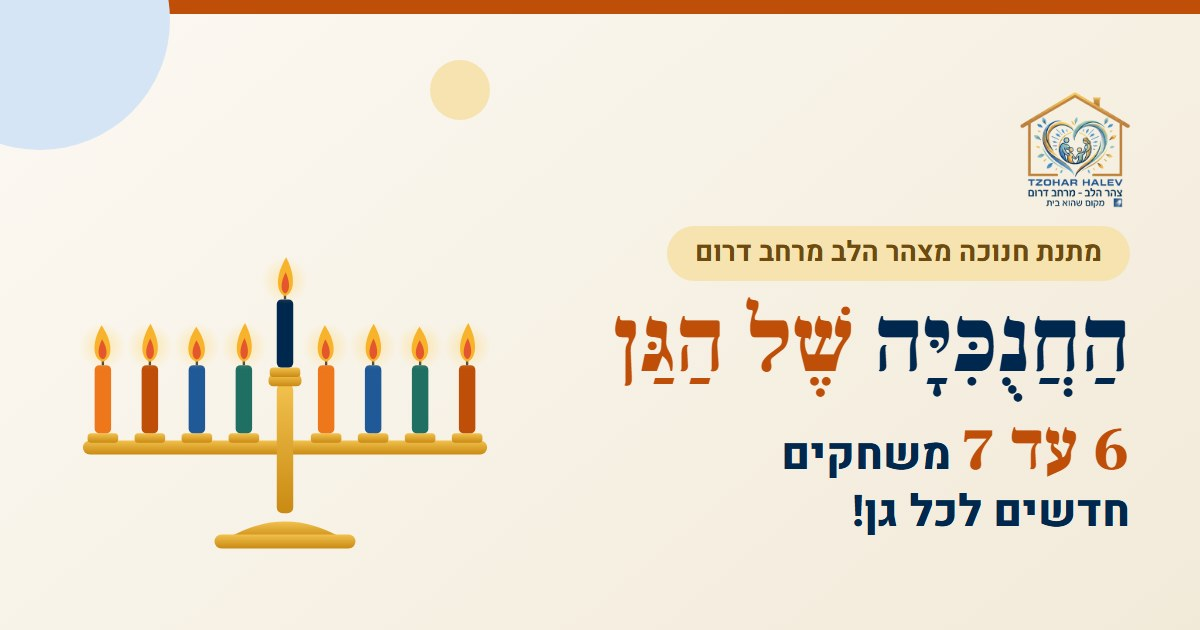
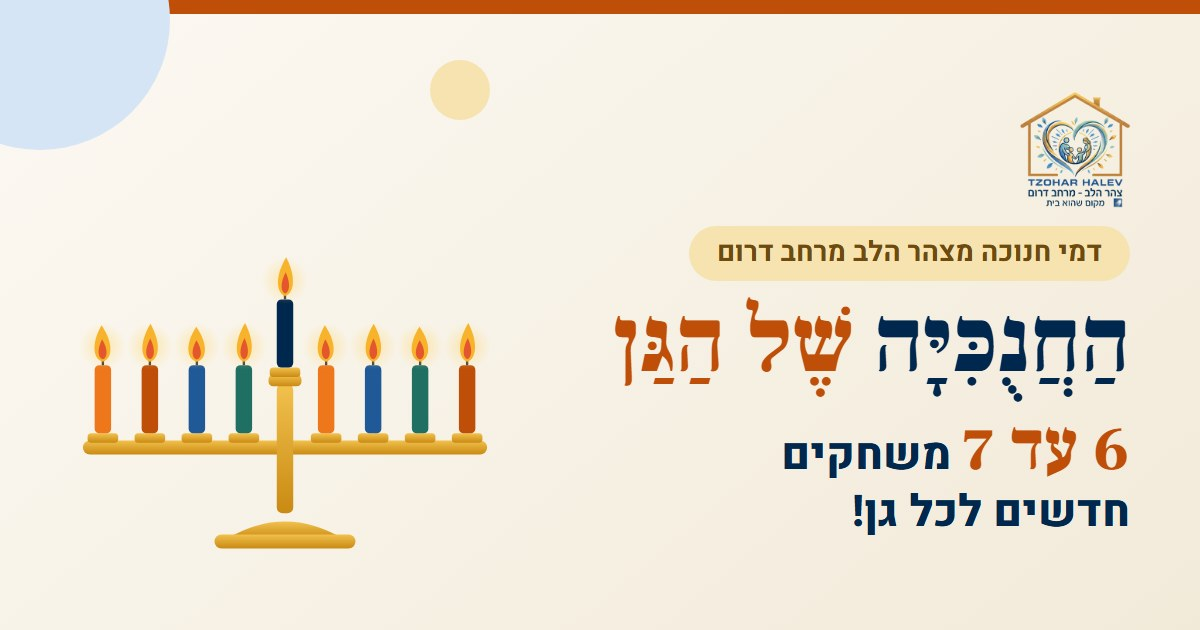
מיילים: דמי חנוכה במקום מתנת חנוכה, תמונות בגרסה 1611

Changed region(s): [[0.555, 0.3619, 0.925, 0.4524]]

diff --git a/email/body_all.html b/email/body_all.html
@@ -1,28 +1,28 @@
 <div dir="rtl" style="direction:rtl;text-align:right">
 <table dir="rtl" cellpadding="0" cellspacing="0" border="0" width="600" style="width:600px;max-width:100%;border-collapse:separate;margin:0 auto">
 <tbody>
-<tr><td style="text-align:center;padding:0 0 16px 0"><a href="https://miriam-tzohar.github.io/chanukiya/"><img src="https://miriam-tzohar.github.io/chanukiya/email/hero_s.gif?v=1511" width="600" height="300" alt="מתנת חנוכה מצהר הלב, החנוכייה של הגן, 6 עד 7 משחקים חדשים לכל גן" style="display:inline-block;border:0;max-width:100%;height:auto"></a></td></tr>
+<tr><td style="text-align:center;padding:0 0 16px 0"><a href="https://miriam-tzohar.github.io/chanukiya/"><img src="https://miriam-tzohar.github.io/chanukiya/email/hero_s.gif?v=1611" width="600" height="300" alt="דמי חנוכה מצהר הלב, החנוכייה של הגן, 6 עד 7 משחקים חדשים לכל גן" style="display:inline-block;border:0;max-width:100%;height:auto"></a></td></tr>
 <tr><td style="font-family:Arial,sans-serif;background-color:#F9F5EC;border-radius:16px;padding:20px 30px;text-align:right;font-size:15px;line-height:1.75;color:#22313F">שלום לכולן,<br><br>השנה בחנוכה אנחנו רוצות להגיד לכן תודה,<br>בדרך שתישאר בגן הרבה אחרי החג.<br><br>כל אחת מכן, רכזת הגן העו״סית, מטפלת רגשית, קלינאית תקשורת,<br>מנתחת התנהגות, מרפאה בעיסוק, סייעת ABA וגננת הגן,<br>בוחרת משחק אחד חדש לגן.<br><b style="color:#00274D">כך יגיעו לכל גן 6 עד 7 משחקים חדשים!</b><br><br>תפקיד המדריכות משמעותי מאוד, הן עוזרות למודרכות שלהן לבחור משחק.<br>צהר הלב מזמינה, וכל גן יקבל באופן מרוכז את המשחקים שהזמין.<br><br>במייל הזה כל ההוראות, צעד אחר צעד.<br><b style="color:#00274D">קודם העו״סיות רכזות הגנים פותחות את הגנים, ואחר כך כל הצוות בוחר.</b></td></tr>
-<tr><td style="text-align:center;padding:22px 0 4px 0"><img src="https://miriam-tzohar.github.io/chanukiya/email/p_sun2.gif?v=1511" width="340" height="134" alt="השמש של הגן, הרכזות פותחות ראשונות" style="display:inline-block;border:0;max-width:100%;height:auto"></td></tr>
-<tr><td style="text-align:center;padding:16px 0 0 0"><a href="https://miriam-tzohar.github.io/chanukiya/"><img src="https://miriam-tzohar.github.io/chanukiya/email/steps_g.jpg?v=1511" width="600" height="214" alt="נכנסים לקישור, כותבים שם וארבע ספרות ותפקיד עו״סית רכזת, פותחים גן חדש עם כתובת, ושולחים לצוות הודעה מוכנה" style="display:inline-block;border:0;max-width:100%;height:auto"></a></td></tr>
+<tr><td style="text-align:center;padding:22px 0 4px 0"><img src="https://miriam-tzohar.github.io/chanukiya/email/p_sun2.gif?v=1611" width="340" height="134" alt="השמש של הגן, הרכזות פותחות ראשונות" style="display:inline-block;border:0;max-width:100%;height:auto"></td></tr>
+<tr><td style="text-align:center;padding:16px 0 0 0"><a href="https://miriam-tzohar.github.io/chanukiya/"><img src="https://miriam-tzohar.github.io/chanukiya/email/steps_g.jpg?v=1611" width="600" height="214" alt="נכנסים לקישור, כותבים שם וארבע ספרות ותפקיד עו״סית רכזת, פותחים גן חדש עם כתובת, ושולחים לצוות הודעה מוכנה" style="display:inline-block;border:0;max-width:100%;height:auto"></a></td></tr>
 <tr><td style="font-family:Arial,sans-serif;background-color:#F9F5EC;border-radius:16px;padding:20px 30px;text-align:right;font-size:15px;line-height:1.75;color:#22313F"><b style="color:#00274D">עו״סיות רכזות הגנים, ככה פותחים את הגן</b><br>1. נכנסים לקישור <a href="https://miriam-tzohar.github.io/chanukiya/" style="color:#205998;font-weight:bold">miriam-tzohar.github.io/chanukiya</a><br>2. כותבים שם פרטי, שם משפחה וארבע הספרות האחרונות של תעודת הזהות.<br>3. בתפקיד בוחרים "עו״סית רכזת", ואז בוחרים את העיר.<br>4. בשורה "הגן שלך" בוחרים "פתיחת גן חדש (אני הרכזת)".<br>5. ממלאים את שם הגן, הכתובת המדויקת למשלוח, טלפון לתיאום,<br>וכמה יבחרו משחק לגן (הגננת, הסייעות והמטפלות, בלי המדריכה).<br>6. לוחצים "פתיחת הגן". מופיעה הודעה מוכנה לצוות של הגן, ושולחים אותה בוואטסאפ או במייל בלחיצה.<br>7. שומרים את קישור הניהול. הוא רק שלך.<br>בו רואים מי כבר בחרה, אפשר לבחור בשם עובדת בלי אינטרנט, ובסוף סוגרים את הסל.<br>8. רכזת של כמה גנים? לוחצים "פתיחת גן נוסף" ופותחים כל גן בנפרד.<br>9. גם את בוחרת משחק? לוחצים "לבחירת המשחק שלי לגן הזה".<br><br><b style="color:#BE4E08">חשוב לפתוח את הגנים כבר היום, כדי שהצוות יוכל לבחור.</b><br>המשחקים יגיעו לכתובת שתכתבי, אז כדאי לכתוב אותה מדויק.</td></tr>
-<tr><td style="text-align:center;padding:22px 0 4px 0"><img src="https://miriam-tzohar.github.io/chanukiya/email/p_team.gif?v=1511" width="340" height="134" alt="לכל הצוות, ככה בוחרות משחק" style="display:inline-block;border:0;max-width:100%;height:auto"></td></tr>
-<tr><td style="text-align:center;padding:16px 0 0 0"><a href="https://miriam-tzohar.github.io/chanukiya/"><img src="https://miriam-tzohar.github.io/chanukiya/email/steps_s.jpg?v=1511" width="600" height="214" alt="נכנסים לקישור, כותבים שם וארבע ספרות, בוחרים את העיר והגן, ובוחרים משחק" style="display:inline-block;border:0;max-width:100%;height:auto"></a></td></tr>
+<tr><td style="text-align:center;padding:22px 0 4px 0"><img src="https://miriam-tzohar.github.io/chanukiya/email/p_team.gif?v=1611" width="340" height="134" alt="לכל הצוות, ככה בוחרות משחק" style="display:inline-block;border:0;max-width:100%;height:auto"></td></tr>
+<tr><td style="text-align:center;padding:16px 0 0 0"><a href="https://miriam-tzohar.github.io/chanukiya/"><img src="https://miriam-tzohar.github.io/chanukiya/email/steps_s.jpg?v=1611" width="600" height="214" alt="נכנסים לקישור, כותבים שם וארבע ספרות, בוחרים את העיר והגן, ובוחרים משחק" style="display:inline-block;border:0;max-width:100%;height:auto"></a></td></tr>
 <tr><td style="font-family:Arial,sans-serif;background-color:#F9F5EC;border-radius:16px;padding:20px 30px;text-align:right;font-size:15px;line-height:1.75;color:#22313F"><b style="color:#00274D">כל הצוות, ככה בוחרים משחק</b><br>1. נכנסים לאותו קישור <a href="https://miriam-tzohar.github.io/chanukiya/" style="color:#205998;font-weight:bold">miriam-tzohar.github.io/chanukiya</a><br>2. כותבים שם פרטי, שם משפחה וארבע הספרות האחרונות של תעודת הזהות, ובוחרים תפקיד.<br>3. בוחרים עיר, ואת הגן שלך מתוך הרשימה.<br>4. לוחצים "לקטלוג המשחקים". אפשר לסנן לפי תחום, או לחפש לפי שם או מספר.<br>5. לוחצים "זה המשחק שלי" ומאשרים, ונדלק נר בחנוכייה של הגן.<br>6. אפשר לשתף תמונה לסטטוס, או לשלוח לצוות בוואטסאפ.<br><br>הגן שלך לא ברשימה? כנראה שהעו״סית רכזת הגן עוד לא פתחה אותו.<br>נסי שוב מאוחר יותר, או הזכירי לה.</td></tr>
-<tr><td style="text-align:center;padding:16px 0 0 0"><img src="https://miriam-tzohar.github.io/chanukiya/email/stats.jpg?v=1511" width="600" height="132" alt="6 עד 7 משחקים חדשים לכל גן, 6 ערים בדרום, הבחירה נסגרת ב25.11" style="display:inline-block;border:0;max-width:100%;height:auto"></td></tr>
-<tr><td style="text-align:center;padding:22px 0 4px 0"><img src="https://miriam-tzohar.github.io/chanukiya/email/p_cat.gif?v=1511" width="340" height="134" alt="מן הקטלוג, משחקים לגיל הגן לפי תחומים" style="display:inline-block;border:0;max-width:100%;height:auto"></td></tr>
-<tr><td style="text-align:center;padding:16px 0 0 0"><a href="https://miriam-tzohar.github.io/chanukiya/"><img src="https://miriam-tzohar.github.io/chanukiya/email/games.jpg?v=1511" width="600" height="262" alt="ארבעה משחקים לדוגמה מהקטלוג" style="display:inline-block;border:0;max-width:100%;height:auto"></a></td></tr>
+<tr><td style="text-align:center;padding:16px 0 0 0"><img src="https://miriam-tzohar.github.io/chanukiya/email/stats.jpg?v=1611" width="600" height="132" alt="6 עד 7 משחקים חדשים לכל גן, 6 ערים בדרום, הבחירה נסגרת ב25.11" style="display:inline-block;border:0;max-width:100%;height:auto"></td></tr>
+<tr><td style="text-align:center;padding:22px 0 4px 0"><img src="https://miriam-tzohar.github.io/chanukiya/email/p_cat.gif?v=1611" width="340" height="134" alt="מן הקטלוג, משחקים לגיל הגן לפי תחומים" style="display:inline-block;border:0;max-width:100%;height:auto"></td></tr>
+<tr><td style="text-align:center;padding:16px 0 0 0"><a href="https://miriam-tzohar.github.io/chanukiya/"><img src="https://miriam-tzohar.github.io/chanukiya/email/games.jpg?v=1611" width="600" height="262" alt="ארבעה משחקים לדוגמה מהקטלוג" style="display:inline-block;border:0;max-width:100%;height:auto"></a></td></tr>
 <tr><td style="font-family:Arial,sans-serif;background-color:#F9F5EC;border-radius:16px;padding:20px 30px;text-align:right;font-size:15px;line-height:1.75;color:#22313F">קלינאית תקשורת תמצא משחקי שפה,<br>מרפאה בעיסוק משחקי מוטוריקה וחושים,<br>והסייעות משחקי חברה ותורות.<br>יש גם פאזלים, משחקי חשיבה ומשחקים לחגים.</td></tr>
-<tr><td style="text-align:center;padding:22px 0 4px 0"><img src="https://miriam-tzohar.github.io/chanukiya/email/p_off.gif?v=1511" width="340" height="134" alt="בלי אינטרנט, גם כך אפשר לבחור" style="display:inline-block;border:0;max-width:100%;height:auto"></td></tr>
+<tr><td style="text-align:center;padding:22px 0 4px 0"><img src="https://miriam-tzohar.github.io/chanukiya/email/p_off.gif?v=1611" width="340" height="134" alt="בלי אינטרנט, גם כך אפשר לבחור" style="display:inline-block;border:0;max-width:100%;height:auto"></td></tr>
 <tr><td style="font-family:Arial,sans-serif;background-color:#E6F3EE;border-radius:16px;padding:20px 30px;text-align:right;font-size:15px;line-height:1.85;color:#22313F">אין לך אינטרנט, או שהקישור לא נפתח אצלך?<br>מצורף למייל קטלוג להדפסה, ולכל משחק יש בו מספר.<br>בוחרים מספר ומוסרים אותו לרכזת הגן, יחד עם השם וארבע הספרות.<br>הרכזת נכנסת לקישור הניהול שלה, לוחצת "בחירה בשם עובדת",<br>וכותבת את מספר המשחק בחיפוש.<br><a href="https://miriam-tzohar.github.io/chanukiya/catalog.pdf" style="color:#205998;font-weight:bold">לקטלוג להדפסה</a></td></tr>
-<tr><td style="text-align:center;padding:22px 0 4px 0"><img src="https://miriam-tzohar.github.io/chanukiya/email/p_faq.gif?v=1511" width="340" height="134" alt="שאלות ותשובות, כל מה שחשוב לדעת" style="display:inline-block;border:0;max-width:100%;height:auto"></td></tr>
+<tr><td style="text-align:center;padding:22px 0 4px 0"><img src="https://miriam-tzohar.github.io/chanukiya/email/p_faq.gif?v=1611" width="340" height="134" alt="שאלות ותשובות, כל מה שחשוב לדעת" style="display:inline-block;border:0;max-width:100%;height:auto"></td></tr>
 <tr><td style="font-family:Arial,sans-serif;background-color:#F9F5EC;border-radius:16px;padding:20px 30px;text-align:right;font-size:15px;line-height:1.75;color:#22313F"><b style="color:#00274D">מדריכה, מה התפקיד שלך?</b><br>תפקיד המדריכות פה משמעותי מאוד.<br>את זו שעוזרת לכל המודרכות שלך לבחור משחק.<br>שבי איתן מול הקטלוג, המליצי על משחקים שמתאימים לילדים,<br>וכל אחת בוחרת בעצמה.<br><br><b style="color:#00274D">עו״סית שמרכזת כמה גנים?</b><br>פותחת את כל הגנים שלה, ובוחרת משחק אחד לאחד מהם.<br><br><b style="color:#00274D">אפשר להחליף משחק?</b><br>כן, עד שהרכזת סוגרת את הסל.<br><br><b style="color:#00274D">המשחק שרציתי נעול?</b><br>מישהי מהגן כבר בחרה אותו, כדי שלא יהיו כפולים. בוחרים משחק אחר.<br><br><b style="color:#00274D">למה ארבע ספרות?</b><br>רק כדי שכל אחת תבחר פעם אחת. לא מבקשים את המספר המלא.<br><br><b style="color:#00274D">מתי המשחקים מגיעים?</b><br>צהר הלב מזמינה אחרי שהבחירה נסגרת,<br>וכל גן יקבל באופן מרוכז את כל המשחקים שלו.</td></tr>
-<tr><td style="text-align:center;padding:22px 0 4px 0"><img src="https://miriam-tzohar.github.io/chanukiya/email/p_note.gif?v=1511" width="340" height="134" alt="מילה אישית ממרים" style="display:inline-block;border:0;max-width:100%;height:auto"></td></tr>
+<tr><td style="text-align:center;padding:22px 0 4px 0"><img src="https://miriam-tzohar.github.io/chanukiya/email/p_note.gif?v=1611" width="340" height="134" alt="מילה אישית ממרים" style="display:inline-block;border:0;max-width:100%;height:auto"></td></tr>
 <tr><td style="font-family:Arial,sans-serif;background-color:#EEF4FA;border:2px solid #DCE8F5;border-radius:18px;padding:22px 30px;text-align:center;font-size:15.5px;line-height:1.85;color:#00274D">אני רואה כל יום כמה אתן נותנות לילדים שלנו.<br>המשחק הזה הוא תודה קטנה,<br>שתישאר בגן ותשמח את הילדים גם אחרי החג.<br>אז תבחרו משהו שאתן אוהבות,<br>ותדליקו איתנו את החנוכייה של הגן.<br><span style="color:#BE4E08;font-weight:bold">מרים</span></td></tr>
 <tr><td style="font-family:Arial,sans-serif;padding:22px 10px 0 10px;text-align:center;font-size:16px;line-height:1.75;color:#00274D">הבחירה פתוחה עד יום רביעי, 25.11</td></tr>
-<tr><td style="text-align:center;padding:8px 0 0 0"><a href="https://miriam-tzohar.github.io/chanukiya/"><img src="https://miriam-tzohar.github.io/chanukiya/email/cta_s.gif?v=1511" width="600" height="156" alt="לבחירת המשחק שלי, לחצי כאן" style="display:inline-block;border:0;max-width:100%;height:auto"></a></td></tr>
+<tr><td style="text-align:center;padding:8px 0 0 0"><a href="https://miriam-tzohar.github.io/chanukiya/"><img src="https://miriam-tzohar.github.io/chanukiya/email/cta_s.gif?v=1611" width="600" height="156" alt="לבחירת המשחק שלי, לחצי כאן" style="display:inline-block;border:0;max-width:100%;height:auto"></a></td></tr>
 <tr><td style="font-family:Arial,sans-serif;text-align:center;padding:4px 0 0 0;font-size:14px;color:#33475E">הקישור לבחירה <a href="https://miriam-tzohar.github.io/chanukiya/" style="color:#205998;font-weight:bold">miriam-tzohar.github.io/chanukiya</a></td></tr>
-<tr><td style="text-align:center;padding:16px 0 0 0"><a href="https://miriam-tzohar.github.io/chanukiya/wall.html"><img src="https://miriam-tzohar.github.io/chanukiya/email/wall.jpg?v=1511" width="600" height="150" alt="קיר החנוכיות, איזה גן ידליק ראשון את כל החנוכייה" style="display:inline-block;border:0;max-width:100%;height:auto"></a></td></tr>
+<tr><td style="text-align:center;padding:16px 0 0 0"><a href="https://miriam-tzohar.github.io/chanukiya/wall.html"><img src="https://miriam-tzohar.github.io/chanukiya/email/wall.jpg?v=1611" width="600" height="150" alt="קיר החנוכיות, איזה גן ידליק ראשון את כל החנוכייה" style="display:inline-block;border:0;max-width:100%;height:auto"></a></td></tr>
 <tr><td style="font-family:Arial,sans-serif;padding:24px 6px 0 0;text-align:right;font-size:15px;color:#22313F">חג אורים שמח,</td></tr>
 <tr><td style="font-family:Arial,sans-serif;padding:10px 6px 0 0;text-align:right;font-size:13.5px;line-height:1.65;color:#33475E"><span style="font-size:16px;font-weight:bold;color:#00274D">מרים</span><br><span style="font-weight:bold;color:#BE4E08">רכזת אשכול, צהר הלב מרחב דרום</span><br><a href="mailto:miryamti@tzlev.com" style="color:#205998">miryamti@tzlev.com</a></td></tr>
 </tbody></table>

diff --git a/email/body_rakazot.html b/email/body_rakazot.html
@@ -1,24 +1,24 @@
 <div dir="rtl" style="direction:rtl;text-align:right">
 <table dir="rtl" cellpadding="0" cellspacing="0" border="0" width="600" style="width:600px;max-width:100%;border-collapse:separate;margin:0 auto">
 <tbody>
-<tr><td style="text-align:center;padding:0 0 16px 0"><a href="https://miriam-tzohar.github.io/chanukiya/"><img src="https://miriam-tzohar.github.io/chanukiya/email/hero_g.gif?v=1511" width="600" height="300" alt="את השמש של הגן, את פותחת את הגן וכל הצוות בוחר משחק חדש" style="display:inline-block;border:0;max-width:100%;height:auto"></a></td></tr>
+<tr><td style="text-align:center;padding:0 0 16px 0"><a href="https://miriam-tzohar.github.io/chanukiya/"><img src="https://miriam-tzohar.github.io/chanukiya/email/hero_g.gif?v=1611" width="600" height="300" alt="את השמש של הגן, את פותחת את הגן וכל הצוות בוחר משחק חדש" style="display:inline-block;border:0;max-width:100%;height:auto"></a></td></tr>
 <tr><td style="font-family:Arial,sans-serif;background-color:#F9F5EC;border-radius:16px;padding:20px 30px;text-align:right;font-size:15px;line-height:1.75;color:#22313F">עו״סית יקרה,<br><br>השנה בחנוכה צהר הלב מזמינה לכל אשת צוות בגנים שלך משחק חדש לגן,<br><b style="color:#00274D">כך יגיעו לכל גן 6 עד 7 משחקים חדשים!</b><br>רכזת הגן, המטפלות, סייעת ABA והגננת, כל אחת בוחרת משחק בעצמה מהקטלוג.<br>תפקיד המדריכות משמעותי מאוד, הן עוזרות לצוות לבחור.<br>צהר הלב מזמינה, וכל גן יקבל באופן מרוכז את המשחקים שהזמין.</td></tr>
-<tr><td style="text-align:center;padding:22px 0 4px 0"><img src="https://miriam-tzohar.github.io/chanukiya/email/p_sun.gif?v=1511" width="340" height="134" alt="השמש של הגן, את פותחת ראשונה" style="display:inline-block;border:0;max-width:100%;height:auto"></td></tr>
+<tr><td style="text-align:center;padding:22px 0 4px 0"><img src="https://miriam-tzohar.github.io/chanukiya/email/p_sun.gif?v=1611" width="340" height="134" alt="השמש של הגן, את פותחת ראשונה" style="display:inline-block;border:0;max-width:100%;height:auto"></td></tr>
 <tr><td style="font-family:Arial,sans-serif;background-color:#F9F5EC;border-radius:16px;padding:20px 30px;text-align:right;font-size:15px;line-height:1.75;color:#22313F">את רכזת הגן, ולכן את השמש של החנוכייה.<br>את פותחת את הגן ראשונה,<br>ואז כל אשת צוות שבוחרת משחק מדליקה נר בחנוכייה של הגן.<br>רכזת של כמה גנים? פותחים כל גן בנפרד, זה לוקח דקה לכל גן.</td></tr>
-<tr><td style="text-align:center;padding:16px 0 0 0"><a href="https://miriam-tzohar.github.io/chanukiya/"><img src="https://miriam-tzohar.github.io/chanukiya/email/steps_g.jpg?v=1511" width="600" height="214" alt="נכנסים לקישור, כותבים שם וארבע ספרות ותפקיד עו״סית רכזת, פותחים גן חדש עם כתובת, ושולחים לצוות הודעה מוכנה" style="display:inline-block;border:0;max-width:100%;height:auto"></a></td></tr>
+<tr><td style="text-align:center;padding:16px 0 0 0"><a href="https://miriam-tzohar.github.io/chanukiya/"><img src="https://miriam-tzohar.github.io/chanukiya/email/steps_g.jpg?v=1611" width="600" height="214" alt="נכנסים לקישור, כותבים שם וארבע ספרות ותפקיד עו״סית רכזת, פותחים גן חדש עם כתובת, ושולחים לצוות הודעה מוכנה" style="display:inline-block;border:0;max-width:100%;height:auto"></a></td></tr>
 <tr><td style="font-family:Arial,sans-serif;background-color:#F9F5EC;border-radius:16px;padding:20px 30px;text-align:right;font-size:15px;line-height:1.75;color:#22313F">אחרי הפתיחה מופיעה לך הודעה מוכנה לצוות של הגן,<br>עם כפתור וואטסאפ וכפתור מייל.<br><br>יש לך גם קישור ניהול לכל גן, והוא רק שלך.<br>בו רואים מי כבר בחרה ומה,<br>אפשר לבחור בשם עובדת בלי סמארטפון,<br>ובסוף סוגרים את הסל.<br><br>גם את יכולה לבחור משחק אחד, לאחד הגנים שלך.</td></tr>
-<tr><td style="text-align:center;padding:16px 0 0 0"><img src="https://miriam-tzohar.github.io/chanukiya/email/stats.jpg?v=1511" width="600" height="132" alt="6 עד 7 משחקים חדשים לכל גן, 6 ערים בדרום, הבחירה נסגרת ב25.11" style="display:inline-block;border:0;max-width:100%;height:auto"></td></tr>
-<tr><td style="text-align:center;padding:22px 0 4px 0"><img src="https://miriam-tzohar.github.io/chanukiya/email/p_cat.gif?v=1511" width="340" height="134" alt="מן הקטלוג, משחקים לגיל הגן לפי תחומים" style="display:inline-block;border:0;max-width:100%;height:auto"></td></tr>
-<tr><td style="text-align:center;padding:16px 0 0 0"><a href="https://miriam-tzohar.github.io/chanukiya/"><img src="https://miriam-tzohar.github.io/chanukiya/email/games.jpg?v=1511" width="600" height="262" alt="ארבעה משחקים לדוגמה מהקטלוג" style="display:inline-block;border:0;max-width:100%;height:auto"></a></td></tr>
+<tr><td style="text-align:center;padding:16px 0 0 0"><img src="https://miriam-tzohar.github.io/chanukiya/email/stats.jpg?v=1611" width="600" height="132" alt="6 עד 7 משחקים חדשים לכל גן, 6 ערים בדרום, הבחירה נסגרת ב25.11" style="display:inline-block;border:0;max-width:100%;height:auto"></td></tr>
+<tr><td style="text-align:center;padding:22px 0 4px 0"><img src="https://miriam-tzohar.github.io/chanukiya/email/p_cat.gif?v=1611" width="340" height="134" alt="מן הקטלוג, משחקים לגיל הגן לפי תחומים" style="display:inline-block;border:0;max-width:100%;height:auto"></td></tr>
+<tr><td style="text-align:center;padding:16px 0 0 0"><a href="https://miriam-tzohar.github.io/chanukiya/"><img src="https://miriam-tzohar.github.io/chanukiya/email/games.jpg?v=1611" width="600" height="262" alt="ארבעה משחקים לדוגמה מהקטלוג" style="display:inline-block;border:0;max-width:100%;height:auto"></a></td></tr>
 <tr><td style="font-family:Arial,sans-serif;background-color:#F9F5EC;border-radius:16px;padding:20px 30px;text-align:right;font-size:15px;line-height:1.75;color:#22313F">בקטלוג יש משחקי שפה, מוטוריקה, חשיבה, משחקי חברה, פאזלים ומשחקים לחגים.<br>משחק שכבר נבחר בגן נעול, כדי שלא יהיו כפולים.</td></tr>
-<tr><td style="text-align:center;padding:22px 0 4px 0"><img src="https://miriam-tzohar.github.io/chanukiya/email/p_off.gif?v=1511" width="340" height="134" alt="בלי אינטרנט, גם כך אפשר לבחור" style="display:inline-block;border:0;max-width:100%;height:auto"></td></tr>
+<tr><td style="text-align:center;padding:22px 0 4px 0"><img src="https://miriam-tzohar.github.io/chanukiya/email/p_off.gif?v=1611" width="340" height="134" alt="בלי אינטרנט, גם כך אפשר לבחור" style="display:inline-block;border:0;max-width:100%;height:auto"></td></tr>
 <tr><td style="font-family:Arial,sans-serif;background-color:#E6F3EE;border-radius:16px;padding:20px 30px;text-align:right;font-size:15px;line-height:1.85;color:#22313F">עובדת בלי אינטרנט, או שהקישור חסום אצלה?<br>מצורף למייל קטלוג להדפסה, ולכל משחק יש בו מספר.<br>היא אומרת לך את המספר, את השם ואת ארבע הספרות,<br>ואת בוחרת בשמה בקישור הניהול.<br>בחיפוש בקטלוג אפשר פשוט לכתוב את מספר המשחק.<br><a href="https://miriam-tzohar.github.io/chanukiya/catalog.pdf" style="color:#205998;font-weight:bold">לקטלוג להדפסה</a></td></tr>
-<tr><td style="text-align:center;padding:22px 0 4px 0"><img src="https://miriam-tzohar.github.io/chanukiya/email/p_note.gif?v=1511" width="340" height="134" alt="מילה אישית ממרים" style="display:inline-block;border:0;max-width:100%;height:auto"></td></tr>
+<tr><td style="text-align:center;padding:22px 0 4px 0"><img src="https://miriam-tzohar.github.io/chanukiya/email/p_note.gif?v=1611" width="340" height="134" alt="מילה אישית ממרים" style="display:inline-block;border:0;max-width:100%;height:auto"></td></tr>
 <tr><td style="font-family:Arial,sans-serif;background-color:#EEF4FA;border:2px solid #DCE8F5;border-radius:18px;padding:22px 30px;text-align:center;font-size:15.5px;line-height:1.85;color:#00274D">אתן מחזיקות את הגן,<br>את הצוות, את הילדים ואת ההורים,<br>כל יום מחדש.<br>אז השנה אתן גם מדליקות את האור הראשון.<br>תודה שאתן איתנו.<br><span style="color:#BE4E08;font-weight:bold">מרים</span></td></tr>
 <tr><td style="font-family:Arial,sans-serif;padding:22px 10px 0 10px;text-align:center;font-size:16px;line-height:1.75;color:#00274D">הבחירה פתוחה עד יום רביעי, 25.11</td></tr>
-<tr><td style="text-align:center;padding:8px 0 0 0"><a href="https://miriam-tzohar.github.io/chanukiya/"><img src="https://miriam-tzohar.github.io/chanukiya/email/cta_g.gif?v=1511" width="600" height="156" alt="לפתיחת הגנים שלי, לחצי כאן" style="display:inline-block;border:0;max-width:100%;height:auto"></a></td></tr>
+<tr><td style="text-align:center;padding:8px 0 0 0"><a href="https://miriam-tzohar.github.io/chanukiya/"><img src="https://miriam-tzohar.github.io/chanukiya/email/cta_g.gif?v=1611" width="600" height="156" alt="לפתיחת הגנים שלי, לחצי כאן" style="display:inline-block;border:0;max-width:100%;height:auto"></a></td></tr>
 <tr><td style="font-family:Arial,sans-serif;text-align:center;padding:4px 0 0 0;font-size:14px;color:#33475E">הקישור לפתיחת הגנים <a href="https://miriam-tzohar.github.io/chanukiya/" style="color:#205998;font-weight:bold">miriam-tzohar.github.io/chanukiya</a></td></tr>
-<tr><td style="text-align:center;padding:16px 0 0 0"><a href="https://miriam-tzohar.github.io/chanukiya/wall.html"><img src="https://miriam-tzohar.github.io/chanukiya/email/wall.jpg?v=1511" width="600" height="150" alt="קיר החנוכיות, איזה גן ידליק ראשון את כל החנוכייה" style="display:inline-block;border:0;max-width:100%;height:auto"></a></td></tr>
+<tr><td style="text-align:center;padding:16px 0 0 0"><a href="https://miriam-tzohar.github.io/chanukiya/wall.html"><img src="https://miriam-tzohar.github.io/chanukiya/email/wall.jpg?v=1611" width="600" height="150" alt="קיר החנוכיות, איזה גן ידליק ראשון את כל החנוכייה" style="display:inline-block;border:0;max-width:100%;height:auto"></a></td></tr>
 <tr><td style="font-family:Arial,sans-serif;padding:24px 6px 0 0;text-align:right;font-size:15px;color:#22313F">חג אורים שמח,</td></tr>
 <tr><td style="font-family:Arial,sans-serif;padding:10px 6px 0 0;text-align:right;font-size:13.5px;line-height:1.65;color:#33475E"><span style="font-size:16px;font-weight:bold;color:#00274D">מרים</span><br><span style="font-weight:bold;color:#BE4E08">רכזת אשכול, צהר הלב מרחב דרום</span><br><a href="mailto:miryamti@tzlev.com" style="color:#205998">miryamti@tzlev.com</a></td></tr>
 </tbody></table>
